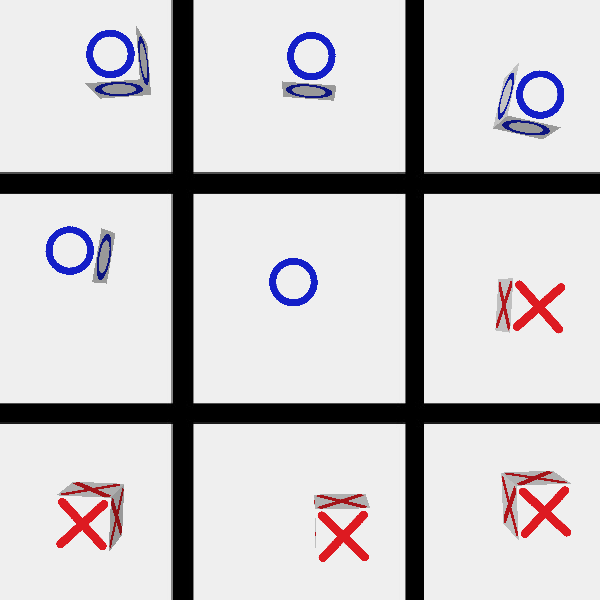
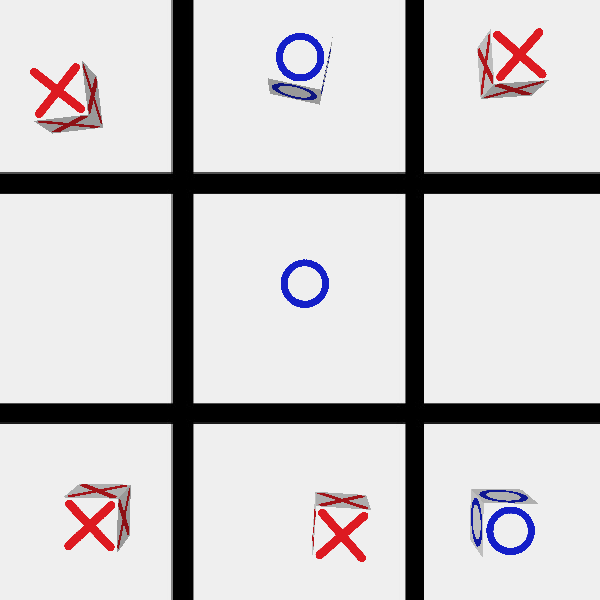
Created grid updating function

diff --git a/bullet.py b/bullet.py
@@ -135,6 +135,7 @@ def place_cube(sign, box_num):
     move_arm(arm, main_base, quick)
     resetPos(arm)
 
+# Take picture from camera and save
 def take_picture():
     viewMatrix = p.computeViewMatrix(
         cameraEyePosition=[0, 0, 1.35],
@@ -152,10 +153,9 @@ def take_picture():
     rgbim = Image.fromarray(rgbBuf)
     rgbim.save('rgb_pic.png')
 
+# Use color mask to seperate X, O
 def save_color_mask():
     img = cv2.imread('rgb_pic.png')
-
-    # Use color mask to seperate X, O
     img = cv2.resize(img, (600,600))
     mask_b = cv2.inRange(img, (50,0,0), (255, 50, 50))
     mask_r = cv2.inRange(img, (0, 0, 50), (50, 50,255))
@@ -164,6 +164,7 @@ def save_color_mask():
     #cv2.imshow("Blue Mask", mask_b)
     #cv2.imshow("Red Mask", mask_r)
 
+# Split mask into 9 boxes
 def crop_board(color):
     # Opens a image in RGB mode
     im = Image.open(f"{color}_mask.png")
@@ -176,17 +177,50 @@ def crop_board(color):
             im1.save(f"board_crops/{color}/{box}.png")
             box += 1
 
-# Main ---------------------------------------------------------------------
+# Convert image info into 2D grid
+def convert_grid(grid, color):
+    box = 1
 
+    if color == 'red':
+        symbol = 'x'
+    else:
+        symbol = 'o'
+
+    for i in range(9):
+        img = Image.open(f"board_crops/{color}/{box}.png")
+        box += 1
+        extrema = img.convert("L").getextrema()
+
+        # Image not blank
+        if extrema != (0, 0):
+            grid[i] = symbol
+
+    return grid
+
+def update_grid(grid):
+    # Save camera rgb image and use color mask to seperate X, O
+    take_picture()
+    save_color_mask()
+
+    # Split x,o masks into 9 boxes
+    crop_board('red')
+    crop_board('blue')
+    
+    # Convert image info into 2D grid
+    grid = convert_grid(grid, 'red')
+    grid = convert_grid(grid, 'blue')
+
+    print(grid)
+    return grid
+
+# Main ---------------------------------------------------------------------
 physicsClient = p.connect(p.GUI)#or p.DIRECT for non-graphical version
 p.setAdditionalSearchPath(pybullet_data.getDataPath()) #optionally
-p.setGravity(0,0,-9.81)
+grid = [' ']*9
+
+# Load models
 load_cubes()
-
-# Load Models [x, y ,z]
 planeId = p.loadURDF("plane.urdf")
-#p.loadURDF("cube_small.urdf",[-0.49,-0.76,0.72])
-
 table_a = p.loadURDF("table/table.urdf",[0,0,0])
 table_b = p.loadURDF("tic_tac_toe_board/table_square.urdf",[0,0.005,0])
 tray_a = p.loadURDF("tray/traybox.urdf",[0.62,0.65,0.67])
@@ -194,39 +228,34 @@ tray_b = p.loadURDF("tray/traybox.urdf",[-0.62,-0.68,0.67])
 arm_a = p.loadURDF("franka_panda/panda.urdf",[-0.55,0,0.65], p.getQuaternionFromEuler([0,0,0]), useFixedBase=1)
 arm_b  = p.loadURDF("franka_panda/panda.urdf",[0.548,-0.07,0.65], p.getQuaternionFromEuler([0,0,3]), useFixedBase=1)
 
+# Set physics
+p.setGravity(0,0,-9.81)
 p.setRealTimeSimulation(0)
 
 # Controlling Arm ----------------------------------------------------------
 resetPos(arm_a)
 resetPos(arm_b)
 
-place_cube(1,1)
+place_cube(0,1)
+update_grid(grid)
 place_cube(1,2)
-place_cube(1,3)
-place_cube(1,4)
+update_grid(grid)
+place_cube(0,3)
+update_grid(grid)
 place_cube(1,5)
-
-place_cube(0,6)
-place_cube(0,7)
+update_grid(grid)
 place_cube(0,8)
-place_cube(0,9)
+update_grid(grid)
+place_cube(1,9)
+update_grid(grid)
+place_cube(0,7)
+update_grid(grid)
 
 # --------------------------------------------------------------------------
 
-# Save camera rgb image and use color mask to seperate X, O
-take_picture()
-save_color_mask()
+#cubePos, cubeOrn = p.getBasePositionAndOrientation(arm_a)
+#print(cubePos,cubeOrn)
 
-# Split x,o masks into 9 boxes
-crop_board('red')
-crop_board('blue')
-  
-# Convert image info into 2D grid
-
-
-
-cubePos, cubeOrn = p.getBasePositionAndOrientation(arm_a)
-print(cubePos,cubeOrn)
 print("\nFinished!\n")
 
 while True:
